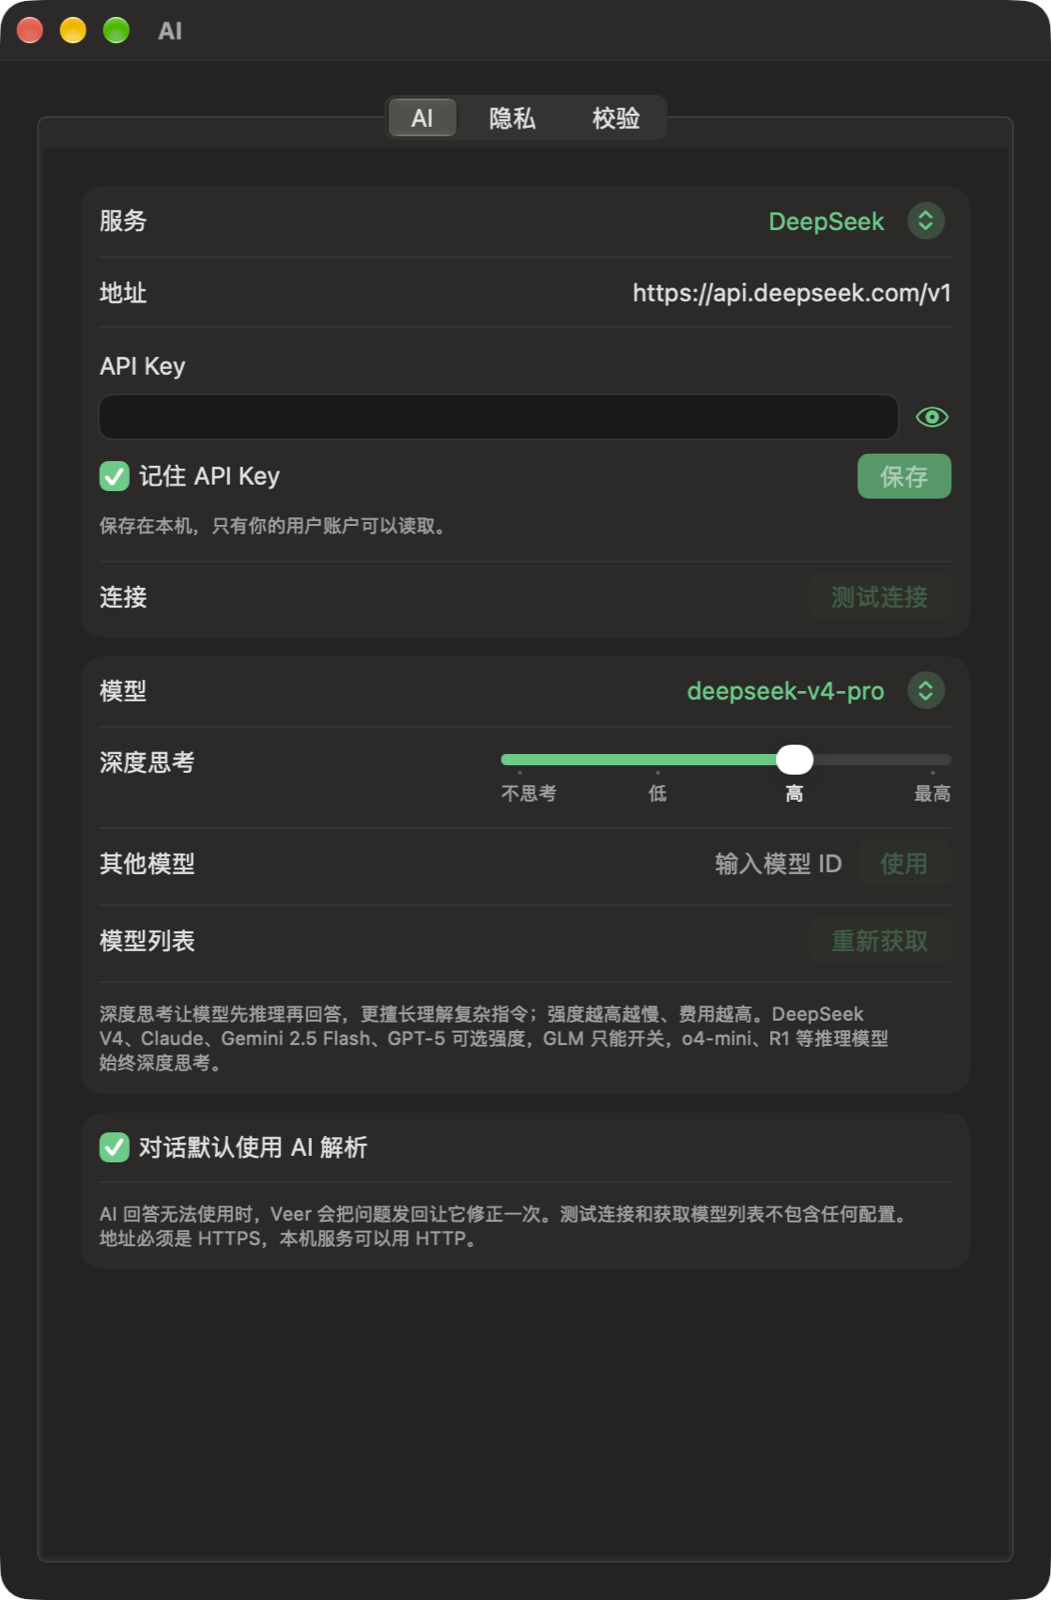
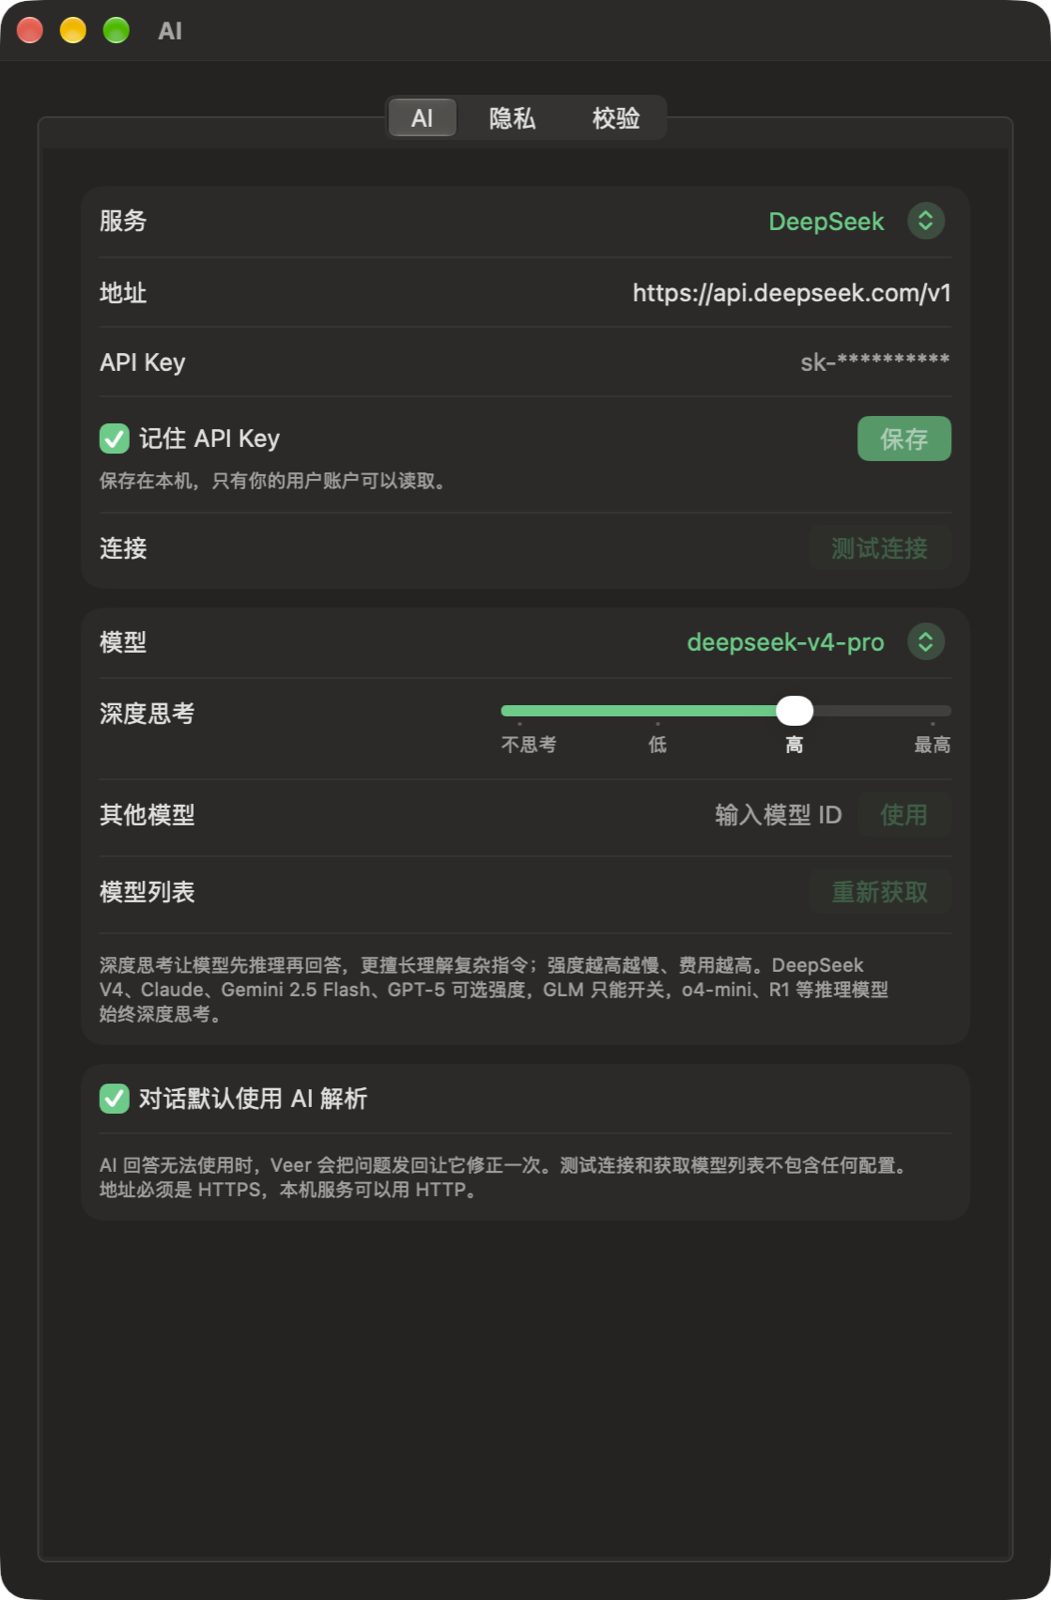
fix: API key field matches the other settings fields
- Plain form field like 地址, with the placeholder "sk-**********"; Return saves
- "Remember" and Save stay on the row below; spec and screenshots updated

Changed region(s): [[0.0913, 0.2188, 0.9134, 0.7812]]

diff --git a/native/macos-editor/Sources/VeerEditorApp/Features/SettingsView.swift b/native/macos-editor/Sources/VeerEditorApp/Features/SettingsView.swift
@@ -151,45 +151,19 @@ struct AISettingsPane: View {
     }
 }
 
-/// Entering a key: a full-width field (with show/hide), then "remember" and Save on one line.
+/// Entering a key: a form field like 地址, then "remember" and Save on the next row.
 struct KeyEntryRow: View {
     let provider: String
     @Binding var key: String
     @Binding var remember: Bool
     let error: String?
     let save: () -> Void
-    @State private var revealed = false
-    @FocusState private var focused: Bool
 
     var body: some View {
-        VStack(alignment: .leading, spacing: Spacing.sm) {
-            Text("API Key")
-            HStack(spacing: Spacing.sm) {
-                Group {
-                    if revealed {
-                        TextField("API Key", text: $key, prompt: Text(""))
-                    } else {
-                        SecureField("API Key", text: $key, prompt: Text(""))
-                    }
-                }
-                .labelsHidden()
-                .textFieldStyle(.roundedBorder)
-                .controlSize(.large)
-                .font(Typography.code)
-                .focused($focused)
-                .onSubmit(save)
-                .accessibilityLabel("\(provider) 的 API Key")
-                Button { revealed.toggle(); focused = true } label: {
-                    Image(systemName: revealed ? "eye.slash" : "eye")
-                }
-                .buttonStyle(.borderless)
-                .help(revealed ? "隐藏 API Key" : "显示 API Key")
-                .accessibilityLabel(revealed ? "隐藏 API Key" : "显示 API Key")
-            }
-            if let error {
-                Label(error, systemImage: "exclamationmark.triangle.fill")
-                    .font(.caption).foregroundStyle(Color.statusFailure)
-            }
+        SecureField("API Key", text: $key, prompt: Text("sk-**********"))
+            .onSubmit(save)
+            .accessibilityLabel("\(provider) 的 API Key")
+        VStack(alignment: .leading, spacing: Spacing.xs) {
             HStack(spacing: Spacing.md) {
                 Toggle("记住 API Key", isOn: $remember)
                     .toggleStyle(.checkbox)
@@ -199,10 +173,13 @@ struct KeyEntryRow: View {
                     .tint(.veerAccent)
                     .disabled(key.trimmingCharacters(in: .whitespacesAndNewlines).isEmpty)
             }
+            if let error {
+                Label(error, systemImage: "exclamationmark.triangle.fill")
+                    .font(.caption).foregroundStyle(Color.statusFailure)
+            }
             Text(remember ? "保存在本机，只有你的用户账户可以读取。" : "只在本次运行有效，退出后需要重新填写。")
                 .font(.caption).foregroundStyle(.secondary)
         }
-        .padding(.vertical, Spacing.xxs)
     }
 }
 

diff --git a/docs/VEER_AI_EDITOR_SPEC_2026-10-17.md b/docs/VEER_AI_EDITOR_SPEC_2026-10-17.md
@@ -519,4 +519,4 @@ native/macos-editor/
 - 输入框左下角的菜单改为弹出面板：解析方式（AI / 本地解析）分段控件、当前服务的模型列表（模型多时可滚动）、深度思考滑块与当前档位、“AI 设置…”。未保存 API Key 时也可以选择模型和强度，面板会提示去设置填写 Key。
 - 设置 → AI 的“深度思考”同样使用滑块。
 - API Key 输入框去掉了占位文字。
-- API Key 填写区改为独立的一行：标题下方是通栏、带边框的输入框（等宽字体，右侧“显示 / 隐藏”按钮，回车即保存），下一行左侧“记住 API Key”、右侧“保存”主按钮，再下方说明保存位置（勾选时“保存在本机，只有你的用户账户可以读取”，不勾选时“只在本次运行有效”）。错误信息显示在输入框下方。
+- API Key 输入框与“地址”等文本框样式一致（标签在左、输入在右），占位文字 `sk-**********`，回车即保存。下一行左侧“记住 API Key”、右侧“保存”主按钮，再下方说明保存位置（勾选时“保存在本机，只有你的用户账户可以读取”，不勾选时“只在本次运行有效”）。错误信息显示在按钮下方。
